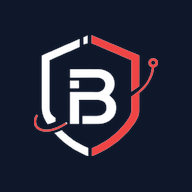
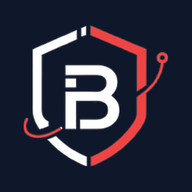
Add Vercel Blob storage for free image uploads

Changed region(s): [[0.0938, 0.125, 0.875, 0.875]]

diff --git a/generate_brand_favicons.py b/generate_brand_favicons.py
@@ -1,0 +1,139 @@
+import os
+import cv2
+import numpy as np
+from PIL import Image, ImageDraw
+
+def generate_favicons():
+    public_dir = 'public'
+    
+    # 1. Load the authentic 512x512 render
+    src_path = os.path.join(public_dir, 'android-chrome-512x512.png')
+    im512_src = Image.open(src_path).convert('RGBA')
+    arr512 = np.array(im512_src)
+
+    # 2. Extract emblem with clean antialiased alpha
+    bg_color = np.array([15, 23, 42]) # #0F172A
+    diff = np.sqrt(np.sum((arr512[:, :, :3] - bg_color)**2, axis=-1))
+    alpha = np.clip((diff - 8) / 35.0 * 255, 0, 255).astype(np.uint8)
+    
+    arr_trans = np.zeros((512, 512, 4), dtype=np.uint8)
+    arr_trans[:, :, :3] = arr512[:, :, :3]
+    arr_trans[:, :, 3] = alpha
+    im_pure_trans = Image.fromarray(arr_trans)
+
+    # 3. Crop to exact emblem bounding box
+    y_idx, x_idx = np.where(alpha > 10)
+    crop_box = (x_idx.min(), y_idx.min(), x_idx.max() + 1, y_idx.max() + 1)
+    icon_cropped = im_pure_trans.crop(crop_box)
+    w_crop, h_crop = icon_cropped.size
+
+    # Target icon size: 385px gives optimal visibility and margin
+    target_size = 385
+    scale = target_size / max(w_crop, h_crop)
+    new_w = int(w_crop * scale)
+    new_h = int(h_crop * scale)
+    icon_scaled = icon_cropped.resize((new_w, new_h), Image.Resampling.LANCZOS)
+    pos_x = (512 - new_w) // 2
+    pos_y = (512 - new_h) // 2
+
+    # 4. Master Solid Background Canvas (for apple-touch-icon, android-chrome)
+    master_solid = Image.new('RGBA', (512, 512), (15, 23, 42, 255))
+    master_solid.paste(icon_scaled, (pos_x, pos_y), icon_scaled)
+
+    # 5. Master Squircle Canvas (for favicon-16, 32, 48, ico)
+    master_squircle = master_solid.copy()
+    mask = Image.new('L', (512, 512), 0)
+    draw = ImageDraw.Draw(mask)
+    draw.rounded_rectangle([(0, 0), (511, 511)], radius=112, fill=255)
+    master_squircle.putalpha(mask)
+
+    # 6. Generate PNG Favicons
+    fav_16 = master_squircle.resize((16, 16), Image.Resampling.LANCZOS)
+    fav_32 = master_squircle.resize((32, 32), Image.Resampling.LANCZOS)
+    fav_48 = master_squircle.resize((48, 48), Image.Resampling.LANCZOS)
+    
+    fav_16.save(os.path.join(public_dir, 'favicon-16x16.png'))
+    fav_32.save(os.path.join(public_dir, 'favicon-32x32.png'))
+    fav_48.save(os.path.join(public_dir, 'favicon-48x48.png'))
+    print("Saved favicon-16x16.png, favicon-32x32.png, favicon-48x48.png")
+
+    # 7. Generate Apple Touch Icon (180x180 solid background)
+    apple_icon = master_solid.resize((180, 180), Image.Resampling.LANCZOS)
+    apple_icon.save(os.path.join(public_dir, 'apple-touch-icon.png'))
+    print("Saved apple-touch-icon.png (180x180 solid)")
+
+    # 8. Generate Android Chrome Icons (192x192, 512x512 solid background)
+    android_192 = master_solid.resize((192, 192), Image.Resampling.LANCZOS)
+    android_192.save(os.path.join(public_dir, 'android-chrome-192x192.png'))
+    master_solid.save(os.path.join(public_dir, 'android-chrome-512x512.png'))
+    print("Saved android-chrome-192x192.png, android-chrome-512x512.png")
+
+    # 9. Generate multi-resolution favicon.ico
+    master_squircle.save(
+        os.path.join(public_dir, 'favicon.ico'),
+        format='ICO',
+        sizes=[(16, 16), (32, 32), (48, 48)]
+    )
+    print("Saved multi-size favicon.ico (16x16, 32x32, 48x48)")
+
+    # 10. Generate Vector SVG Favicon
+    white_mask = cv2.imread('C:/Users/ASUS/.gemini/antigravity-ide/brain/29149617-9eb1-4161-a74a-5c8d45f27597/scratch/mask512_white.png', cv2.IMREAD_GRAYSCALE)
+    red_mask = cv2.imread('C:/Users/ASUS/.gemini/antigravity-ide/brain/29149617-9eb1-4161-a74a-5c8d45f27597/scratch/mask512_red.png', cv2.IMREAD_GRAYSCALE)
+
+    # Exclude node raster circle so we can draw a perfect SVG circle
+    red_mask_no_node = red_mask.copy()
+    red_mask_no_node[150:185, 395:425] = 0
+
+    r_cnt, _ = cv2.findContours(red_mask_no_node, cv2.RETR_TREE, cv2.CHAIN_APPROX_TC89_KCOS)
+    w_cnt, _ = cv2.findContours(white_mask, cv2.RETR_TREE, cv2.CHAIN_APPROX_TC89_KCOS)
+
+    # Center and scaling matching the raster icons
+    cx, cy = 255.5, 255.5
+    scale_svg = 385.0 / 328.0
+
+    def transform_pts(pts):
+        return (pts - np.array([cx, cy])) * scale_svg + np.array([cx, cy])
+
+    def contour_to_d(contours, epsilon=0.9):
+        d_list = []
+        for c in contours:
+            if cv2.contourArea(c) < 30: continue
+            approx = cv2.approxPolyDP(c, epsilon, True)
+            pts = approx.reshape(-1, 2).astype(float)
+            if len(pts) < 3: continue
+            pts = transform_pts(pts)
+            d = f"M {pts[0][0]:.1f} {pts[0][1]:.1f} " + " ".join([f"L {p[0]:.1f} {p[1]:.1f}" for p in pts[1:]]) + " Z"
+            d_list.append(d)
+        return " ".join(d_list)
+
+    w_d = contour_to_d(w_cnt, epsilon=0.9)
+    r_d = contour_to_d(r_cnt, epsilon=0.9)
+
+    node_center = transform_pts(np.array([407.0, 169.0]))
+    node_r_outer = 13.0 * scale_svg
+    node_r_inner = 5.5 * scale_svg
+
+    svg_content = f'''<svg xmlns="http://www.w3.org/2000/svg" viewBox="0 0 512 512" width="512" height="512">
+  <defs>
+    <linearGradient id="bbBg" x1="0%" y1="0%" x2="100%" y2="100%">
+      <stop offset="0%" stop-color="#0F172A" />
+      <stop offset="100%" stop-color="#070B14" />
+    </linearGradient>
+  </defs>
+  <!-- Background Brand Badge (Squircle) -->
+  <rect width="512" height="512" rx="112" fill="url(#bbBg)" />
+  <!-- White Shield & Monogram Elements -->
+  <path d="{w_d}" fill="#FFFFFF" fill-rule="evenodd" />
+  <!-- Cyber Red Shield & Orbit Elements -->
+  <path d="{r_d}" fill="#EA4343" fill-rule="evenodd" />
+  <!-- Cyber Red Sensor Node -->
+  <circle cx="{node_center[0]:.1f}" cy="{node_center[1]:.1f}" r="{node_r_outer:.1f}" fill="#EA4343" />
+  <circle cx="{node_center[0]:.1f}" cy="{node_center[1]:.1f}" r="{node_r_inner:.1f}" fill="#0F172A" />
+</svg>
+'''
+    with open(os.path.join(public_dir, 'favicon.svg'), 'w', encoding='utf-8') as f:
+        f.write(svg_content)
+    print("Saved vector favicon.svg")
+
+if __name__ == '__main__':
+    generate_favicons()
